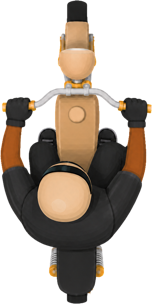
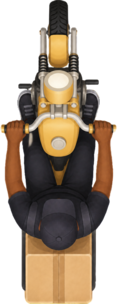
Passe « craft » du jeu mobility option — les deux-roues redessinés, la carte gamme recalée
Reprise des deux composants Figma « icons » (40:169) et « Taxi Moto » (40:198).
La doctrine des deux vues est tranchée : le pilote ne figure plus que sur la vue
de dessus — la carto suit quelqu'un — tandis que les variantes Default montrent
le véhicule seul, parce que la carte gamme vend une machine.

Les deux-roues sont redessinés en 3/4 couché. ILLO_SIZES passe de 59 × 76 et
47 × 76 à moto 106 × 87 et vélo 78 × 76 : la moto casse le gabarit commun de 76
de haut, délibérément, c'est la gamme la plus vendue et elle occupe la carte en
conséquence. Côté vue de dessus, TOPVIEW_RATIOS suit le nouveau dessin — moto
0,385 (elle s'affine), vélo 0,510 (il s'élargit, le cycliste écartant les bras
jusqu'aux poignées). Les longueurs TOPVIEW_MARKER sont recalculées pour
conserver la largeur apparente validée sur le terrain (moto 30 px, vélo 23,6 px),
puisque c'est elle le critère de lisibilité et non la longueur : la moto passe de
60 à 78 (56 pour les figurants), le vélo de 63 à 46 (32). La bande avant du
découpage de roue reste à 0,24 / 0,22, revérifiée au profil alpha ligne à ligne —
sur les deux dessins elle ne contient que la roue, guidon et mains n'arrivant
qu'à ~30 % de la longueur ; découper plus bas trancherait les avant-bras.

Carte gamme : espacement 12 → 18, la plateforme se tasse à 52 et le débord de
l'illustration double ; libellé 12 → 16/20, et c'est cet interligne surchargé qui
fait tomber la géométrie exactement sur Figma (bloc info 47, plateforme 52).
[…]

diff --git a/apps/fiw/constants/illustrations.ts b/apps/fiw/constants/illustrations.ts
@@ -51,12 +51,15 @@ export const TOPVIEW_ILLUSTRATIONS: Record<IlluKey, ReturnType<typeof require>> 
  *  (l'ombre portée élargit un peu la boîte des voitures). Sert à dimensionner
  *  le marqueur à partir de sa seule LONGUEUR, sans jamais l'étirer. */
 export const TOPVIEW_RATIOS: Record<IlluKey, number> = {
-  moto: 0.5,
-  velo: 0.375,
+  // Deux-roues redessinés le 14 août 2026 : la moto s'affine (silhouette plus
+  // serrée) tandis que le vélo s'élargit nettement — le cycliste y écarte les
+  // bras jusqu'aux poignées, et c'est cette envergure qui fait la largeur.
+  moto: 0.385,
+  velo: 0.51,
   auto: 0.549,
   luxe: 0.497,
   covoiturage: 0.569,
-  livraison: 0.5,
+  livraison: 0.385,
 };
 
 export const topviewIllustration = (illu: IlluKey) =>
@@ -106,6 +109,12 @@ export const topviewIllustration = (illu: IlluKey) =>
  * changer d'illustration impose de les revérifier. 0 = pas de découpage : sur
  * une voiture vue du dessus, les roues sont sous la carrosserie, invisibles.
  *
+ * Revérifiées sur les dessins du 14 août 2026 (profil alpha ligne à ligne) :
+ * inchangées. Sur les deux véhicules la bande avant ne contient que la ROUE —
+ * le guidon et les mains du pilote n'apparaissent qu'à ~30 % de la longueur.
+ * C'est ce qui rend le découpage encore possible malgré l'arrivée du pilote
+ * dans le dessin : découper plus bas trancherait les avant-bras.
+ *
  * `maxSteer` = angle de braquage maximal en degrés. Au-delà, l'arête droite de
  * la découpe finit par se voir.
  */
@@ -119,9 +128,15 @@ export const TOPVIEW_MARKER: Record<
   auto: { len: 48, ambLen: 34, pivot: 0.68, lean: 0, steerBand: 0, maxSteer: 0 },
   luxe: { len: 48, ambLen: 34, pivot: 0.68, lean: 0, steerBand: 0, maxSteer: 0 },
   covoiturage: { len: 48, ambLen: 34, pivot: 0.68, lean: 0, steerBand: 0, maxSteer: 0 },
-  moto: { len: 60, ambLen: 43, pivot: 0.72, lean: 0.14, steerBand: 0.24, maxSteer: 26 },
-  velo: { len: 63, ambLen: 44, pivot: 0.75, lean: 0.16, steerBand: 0.22, maxSteer: 28 },
-  livraison: { len: 60, ambLen: 43, pivot: 0.72, lean: 0.14, steerBand: 0.24, maxSteer: 26 },
+  // Deux-roues redessinés le 14 août 2026. Les LONGUEURS sont recalculées pour
+  // **conserver la largeur apparente** validée sur le terrain (moto 30 px,
+  // vélo 23,6 px) : c'est elle le critère de lisibilité, pas la longueur. Le
+  // nouveau ratio fait donc rallonger la moto (60 → 78, sous le plafond ×1,5
+  // constaté) et raccourcir le vélo (63 → 46), qui gagne en largeur ce qu'il
+  // perd en longueur. `ambLen` suit le même rapport qu'avant (≈ 0,70 · len).
+  moto: { len: 78, ambLen: 56, pivot: 0.72, lean: 0.14, steerBand: 0.24, maxSteer: 26 },
+  velo: { len: 46, ambLen: 32, pivot: 0.75, lean: 0.16, steerBand: 0.22, maxSteer: 28 },
+  livraison: { len: 78, ambLen: 56, pivot: 0.72, lean: 0.14, steerBand: 0.24, maxSteer: 26 },
 };
 
 export interface TopviewSprite {
@@ -151,13 +166,24 @@ export const ILLO_SLOT = 68;
  * sur les exports Figma, qui sont rognés au plus près du dessin.
  *
  * Aucune ne tient dans les 68 : les véhicules **débordent volontairement** leur
- * emplacement (76 de haut pour toute la famille, jusqu'à 93 de large pour les
- * voitures). C'est ce débord qui donne son expressivité à la carte gamme — le
- * rendre carré et « contenu » écrase l'illustration et casse la maquette.
+ * emplacement (76 de haut, 93 de large pour les voitures ; la moto pousse
+ * jusqu'à 106 × 87). C'est ce débord qui donne son expressivité à la carte
+ * gamme — le rendre carré et « contenu » écrase l'illustration et casse la
+ * maquette.
  */
 export const ILLO_SIZES: Record<IlluKey, { width: number; height: number }> = {
-  moto: { width: 59, height: 76 },
-  velo: { width: 47, height: 76 },
+  // Passe « craft » du 14 août 2026 : les deux-roues sont redessinés **sans
+  // pilote** sur cette vue (il ne reste que sur la vue de dessus, cf. plus bas)
+  // et en 3/4 plus couché. Ils passent donc de silhouettes étroites et debout
+  // (59 et 47 de large) à des gabarits couchés, comme les voitures.
+  //
+  // La moto **casse le gabarit commun** : elle est dessinée à 87 de haut là où
+  // le reste de la famille tient sur 76 (mesuré sur la maquette, boîte alpha
+  // 423 × 347 au ×4). C'est délibéré — elle est la gamme la plus vendue et
+  // occupe la carte en conséquence. Ne pas la « rentrer » à 76 : le débord sur
+  // la plateforme fait partie du dessin.
+  moto: { width: 106, height: 87 },
+  velo: { width: 78, height: 76 },
   auto: { width: 93, height: 76 },
   covoiturage: { width: 93, height: 76 },
   // Variante masquée dans le jeu Figma, mais l'illustration a le gabarit exact

diff --git a/apps/fiw/components/GammeCard.tsx b/apps/fiw/components/GammeCard.tsx
@@ -41,11 +41,17 @@ type Props = {
  * livraison.
  *
  * Géométrie du composant Figma, à ne pas rogner : la plateforme colorée occupe
- * la hauteur restante (~60) et l'illustration garde **sa taille propre** —
- * 76 de haut pour toute la famille, jusqu'à 93 de large pour les voitures
- * (cf. `ILLO_SIZES`). Elle **déborde** donc la plateforme en haut et en bas et
- * se cale **à droite** (`paddingRight: 12`) : c'est ce débord qui donne son
- * expressivité à la carte. Le badge ETA vient mordre le coin bas-gauche.
+ * la hauteur restante (~52) et l'illustration garde **sa taille propre** —
+ * 76 de haut et 93 de large pour les voitures, 78 pour le vélo, 106 × 87 pour
+ * la moto (cf. `ILLO_SIZES`). Elle **déborde** donc la plateforme d'au moins 12
+ * en haut comme en bas et se cale **à droite** (`paddingRight: 12`) : c'est ce
+ * débord qui donne son expressivité à la carte. Le badge ETA vient mordre le
+ * coin bas-gauche.
+ *
+ * Passe « craft » du 14 août 2026 : espacement porté à 18 (la plateforme se
+ * tasse, le débord double), libellé à 16, aplat en `primaryFill` et prix en
+ * `primaryInk`. Les deux-roues y perdent leur pilote — il ne subsiste que sur
+ * la vue de dessus, celle de la carto.
  */
 export default function GammeCard({
   label, eta, price, illu, badge, description, selected, onPress, style,
@@ -57,7 +63,9 @@ export default function GammeCard({
 
   const cardBg = progress.interpolate({ inputRange: [0, 1], outputRange: [Colors.surfaceAlt, Colors.primarySubtle] });
   const cardOpacity = progress.interpolate({ inputRange: [0, 1], outputRange: [0.5, 1] });
-  const platformBg = progress.interpolate({ inputRange: [0, 1], outputRange: [Colors.track, Colors.primary] });
+  // `primaryFill` et non `primary` : sur un aplat de cette taille, le bleu de
+  // marque vibre et mange l'illustration posée dessus (maquette 40:197).
+  const platformBg = progress.interpolate({ inputRange: [0, 1], outputRange: [Colors.track, Colors.primaryFill] });
   const platformScale = progress.interpolate({ inputRange: [0, 1], outputRange: [1, 1.04] });
   const idleOpacity = progress.interpolate({ inputRange: [0, 1], outputRange: [1, 0] });
 
@@ -102,7 +110,7 @@ export default function GammeCard({
               </Text>
             </Animated.View>
             <Animated.View style={[StyleSheet.absoluteFillObject, { opacity: progress }]}>
-              <Text variant="heading2" align="center" style={styles.priceText} color={Colors.primary}>
+              <Text variant="heading2" align="center" style={styles.priceText} color={Colors.primaryInk}>
                 {fmt(price)} FCFA
               </Text>
             </Animated.View>
@@ -116,7 +124,9 @@ export default function GammeCard({
 const styles = StyleSheet.create({
   card: { width: GAMME_CARD_WIDTH, padding: 8, borderRadius: Radii.lg },
   cardBg: { borderRadius: Radii.lg },
-  content: { flex: 1, gap: 12 },
+  // 18 (maquette 40:197) : la plateforme se tasse d'autant, ce qui accentue le
+  // débord de l'illustration — c'est voulu, cf. l'en-tête du composant.
+  content: { flex: 1, gap: 18 },
   platform: {
     flex: 1, width: '100%',
     borderRadius: Radii.md,
@@ -126,7 +136,10 @@ const styles = StyleSheet.create({
   },
   info: { gap: 4 },
   labelRow: { flexDirection: 'row', alignItems: 'center', justifyContent: 'center', gap: 4 },
-  label: { fontSize: 12 },
+  // 16/20 (maquette 40:197). L'interligne doit être surchargé avec la taille :
+  // `variant="label"` impose 18, trop serré pour du 16 — et c'est ce 20 qui fait
+  // tomber la géométrie juste (bloc info 47 → plateforme 52, exactement Figma).
+  label: { fontSize: 16, lineHeight: 20 },
   price: { width: '100%' },
   priceText: { fontFamily: Outfit.bold, width: '100%' },
   tag: {

diff --git a/apps/fiw/constants/colors.ts b/apps/fiw/constants/colors.ts
@@ -3,6 +3,17 @@ export const Colors = {
   primary:        '#0066FF',
   primaryHover:   '#0676FF',
   primaryPressed: '#0D459B',
+  // Aplat bleu des GRANDES surfaces (plateforme de la carte gamme). Moins
+  // saturé que `primary` : étalé sur une large surface, le bleu de marque
+  // vibre et écrase l'illustration posée dessus. Ne jamais l'employer pour du
+  // texte ni pour un bouton — c'est un fond, pas une couleur d'action.
+  primaryFill:    '#3B82F6',
+  // Bleu de TEXTE sur fond clair — un cran plus profond que `primary`, qui
+  // manque de corps sur un chiffre de 18 px (prix de la carte gamme).
+  primaryInk:     '#005DE8',
+  // Aligné sur la variable `primarySubtle` du fichier Figma (16 août 2026) : les
+  // deux avaient divergé, le code tirant vers le violet et la maquette vers le
+  // cyan. Même valeur que `blue50` — c'est le palier subtil de l'échelle bleue.
   primarySubtle:  '#EDF7FF',
   primaryOn:      '#FFFFFF',
   // Jaune de marque (logo Fiw, accents ponctuels). Seuls jaunes autorisés — à ne

diff --git a/MEMORY.md b/MEMORY.md
@@ -12,6 +12,8 @@ Sitemaps Fiw (Client) et Fiw Pro (Prestataire) complétés. ADR 0003 décidé : 
 
 **Jeu d'illustrations `mobility option` & carte gamme partagée (2 août 2026)** : la carte gamme est extraite en composant unique **`components/GammeCard.tsx`** (Figma « Taxi Moto » 40:197), utilisée par la rangée Transport ET les méthodes de livraison — largeur 138 fixe ou `flex: 1`, ligne secondaire optionnelle (hauteur 133 → 152). Le jeu [`mobility option`](assets/illustrations/README.md) (Figma `icons` 40:169) est resynchronisé : **moto** et **velo** en nouveau rendu 3D, `auto`/`covoiturage`/`luxe` inchangés. Point clé : **chaque illustration a sa propre taille de rendu** dans l'emplacement de 68 — 76 de haut pour toute la famille, 93 de large pour les voitures — donc elle **déborde volontairement** la plateforme (`ILLO_SIZES` + `illoSize()` dans `constants/illustrations.ts`). Les assets sont désormais **rognés sur leur boîte alpha** (les exports Figma du composant embarquent le fond gris du frame) : `object-fit: contain` ajouté au marqueur carte, `vehicleRenderImg` ramené à 48. **Moto Livraison montre la même moto que le Taxi Moto** (`illu: 'moto'`) — le véhicule prime sur le service ; `serv-livraison.png` reste la tuile de service de l'accueil.
 
+**Passe « craft » sur le jeu d'illustrations & la carte gamme (14 août 2026)** : reprise des deux composants Figma `icons` (40:169) et « Taxi Moto » (40:198). **Doctrine des deux vues tranchée** : le pilote ne figure plus que sur la **vue de dessus** (la carto suit quelqu'un), les `Default` montrent le **véhicule seul** (la carte gamme vend une machine). Les deux-roues sont redessinés en 3/4 couché : `ILLO_SIZES` passe de 59 × 76 et 47 × 76 à **moto 106 × 87** et **vélo 78 × 76** — et la moto **casse le gabarit commun** de 76 de haut, délibérément (gamme la plus vendue). Vues de dessus : `TOPVIEW_RATIOS` moto **0,385** (s'affine) et vélo **0,510** (s'élargit — le cycliste écarte les bras jusqu'aux poignées) ; les longueurs `TOPVIEW_MARKER` sont recalculées pour **conserver la largeur apparente** validée terrain (moto 30 px, vélo 23,6 px), d'où moto 60 → **78** (56) et vélo 63 → **46** (32). La **bande avant `steerBand` est inchangée** (0,24 / 0,22), revérifiée au profil alpha : sur les deux dessins elle ne contient que la roue, guidon et mains n'arrivant qu'à ~30 % de la longueur — découper plus bas trancherait les avant-bras. Carte gamme : espacement **12 → 18** (la plateforme se tasse à 52, le débord de l'illustration double), libellé **12 → 16/20** (c'est cet interligne qui fait tomber la géométrie exactement sur Figma). **La palette évolue** : `primarySubtle` #EDF7FF → **#E6F0FF**, plus deux rôles nouveaux — **`primaryFill` #3B82F6** (aplat des grandes surfaces : étalé, le bleu de marque vibre et écrase l'illustration) et **`primaryInk` #005DE8** (bleu de texte sur fond clair, `primary` manquant de corps à 18 px). `Colors.primary` #0066FF **reste le bleu de marque**, inchangé. **Deux pièges documentés dans `assets/illustrations/README.md`** : (1) dans Figma les variantes `Default` **`moto` et `vélo` sont interverties** — la variante nommée `moto` contient le vélo, et le README perpétuait l'erreur ; se fier au dessin, pas à l'étiquette ; (2) **les exports Figma de ces composants ne sont pas transparents** (le rendu incruste le fond de page `#E3E3E3`, y compris en exportant le rectangle porteur) — les assets se reconstruisent depuis le **bitmap source** en appliquant l'`imageTransform` du fill (`scaleMode: CROP`, zone visible de `(tx, ty)` à `(tx+a, ty+d)`) puis les rotations du nœud et de son parent, avant `trim-alpha.py`.
+
 **Carte immersive — véhicule sur la route (3 août 2026)** : benchmark Mobbin ([docs/benchmark-carte-mobbin.md](docs/benchmark-carte-mobbin.md) — inDrive, Grab, Gojek, Uber, Careem, Freenow) puis reprise du moteur `components/LeafletMap.tsx`. Le jeu `mobility option` a désormais une **vue de dessus par véhicule** (Figma 40:169, `View=top view`), **nez au nord** dans l'asset : elle habille la **carto** (véhicule suivi + prestataires alentour) pendant que la vue isométrique reste celle des **cartes** — deux emplois disjoints, jamais interchangés. Le sprite **pivote selon son cap** (tangente regardée en avant, lissage exponentiel, braquage borné à 220 °/s), avance à **vitesse sol constante** (abscisse curviligne, plus « un sommet par image » qui accélérait dans les virages), le tracé se lit **parcouru atténué / restant en bleu** sous un liseré blanc, et la caméra **cadre le trajet entier puis suit** le véhicule (recentrage seulement en bord de cadre visible). Les **prestataires alentour roulent sur la voirie réelle** lue via `queryRenderedFeatures` (repli dérive libre) et tournent aux carrefours. **Une seule carte pour toute la course** : les étapes passent par un message `setTrip` (HTML figé au montage) au lieu du remontage `key=` — le véhicule garde position et cap entre les étapes. **Calibre (passe deux-roues, 3 août)** : le premier réglage (tout le monde à 38 px) rendait moto et vélo trop petits — un corpus deux-roues dédié (Zomato, Meituan, Keeta, Glovo, foodpanda, Bolt Food, Blinkit, Swiggy) montre qu'**aucune app ne dessine un deux-roues à son échelle réelle** : soit pastille à gabarit plancher, soit sprite franchement grossi (scooter Zomato **mesuré à 26 × 39 pt**, soit plus large qu'une voiture inDrive ~16 × 29). Le critère est la **largeur apparente**, pas la longueur — un deux-roues vu du dessus est long, fin et ajouré. D'où `TOPVIEW_MARKER`, **relevé d'un quart après comparaison de trois gabarits en conditions réelles** (le réglage collé aux valeurs mesurées était jugé trop timide) : auto/luxe/covoiturage 48 (figurants 34), moto 60 (43), vélo 63 (44), largeurs alignées à 24–30 px. Fiw se place **au-dessus du corpus délibérément** — rendus 3D détaillés qui demandent de la place, et qui portent la marque, là où les références emploient des pictogrammes plats ; **plafond constaté à ×1,5** de ces valeurs, au-delà le sprite déborde la chaussée et la ville se lit comme une maquette. Pastille écartée (masquerait l'illustration, actif de marque). Le virage tenait à trois détails, tous amplifiés sur les sprites longs : **rotation au train arrière** (pivot 0,68–0,75, pas au centre — sinon toupie), **distance de visée en durée** (~0,55 s de parcours, pas 14 m fixes : la simulation compresse 20 min en 54 s, donc à distance fixe le virage arrive en 0,15 s et le sprite pivote d'un bloc) et **inclinaison simulée** des deux-roues (silhouette resserrée de 14–16 % en virage, nulle sur les voitures). **Train avant articulé (3 août)** : les deux-roues tournaient encore d'un bloc, roue avant alignée sur le cadre. Les illustrations Figma étant des **bitmaps aplatis** (vérifié : un rectangle à remplissage image, aucun calque), la roue est détachée **au découpage** — le sprite est dessiné deux fois, l'un privé de sa bande avant (`steerBand` 24 % moto / 22 % vélo, calée sur l'interstice garde-boue↔guidon), l'autre réduit à elle et pivotant sur la colonne de direction ; couture invisible car c'est le même dessin découpé de façon complémentaire, zéro asset en plus, 60 fps tenus à 6 véhicules. Point clé : le braquage est commandé par la **courbure de la route** (grandeur géométrique), **pas** par l'écart de cap — celui-ci paraît naturel mais s'effondre à vitesse de démo, où le cap rattrape sa cible en une image. Profil mesuré : la roue s'engage avant que le cap ne bouge, tient le braquage toute la courbe, se redresse en sortie. Marqueurs non tappables : le calibre est un critère de lisibilité, pas de cible tactile. Trois écueils rencontrés et corrigés : Mapbox réécrit le `transform` du marqueur (rotation/échelle à poser sur l'`<img>`), un `easeTo` de suivi annule le rapprochement d'intro (armer le suivi sur `moveend`), et **aucun accent grave n'est permis dans le template HTML** de LeafletMap.
 
 **Dernière itération Transport (juillet 2026)** : frais d'attente annoncés dès la commande (5 min offertes puis 100 F/min — cf. CONTEXT.md), compte à rebours d'arrivée réel, **Option C** présentée via un interrupteur de démo sur `searching` (A/B et C exclusifs), écran **Historique** (`app/history/`) avec plaque mais **sans numéro prestataire** (objet oublié → service client), actions course active câblées en retour léger réel (appel masqué `transport/call`, chat `transport/chat`, SOS, partage), composants partagés `ReceiptCard` + `ScreenHeader` ajoutés, tokens couleur étendus (`track`/`surfaceAlt`/`brandYellow`) + variante typo `displayXl`. Écran mort `transport/destination` supprimé.

diff --git a/assets/illustrations/README.md b/assets/illustrations/README.md
@@ -20,6 +20,32 @@ Ne jamais poser une vue de dessus sur une carte gamme, ni une vue isométrique
 sur la carte : c'est le partage observé chez toutes les références du
 [benchmark carte](../../docs/benchmark-carte-mobbin.md).
 
+## ⚠ Deux pièges à connaître avant de retoucher ce jeu
+
+**1. Les variantes `moto` et `vélo` sont interverties dans Figma** (constaté le
+14 août 2026, sur la vue `Default`). La variante nommée `mobility option=moto`
+contient **le vélo**, et celle nommée `mobility option=vélo` contient **la
+moto** ; leurs calques internes portent eux aussi le nom de l'autre. Les vues
+`top view` sont, elles, correctement nommées. Un portage qui fait confiance au
+nom de variante intervertit les deux véhicules dans toute l'app. Les tableaux
+ci-dessous donnent le **bon** appariement. Tant que Figma n'est pas corrigé,
+vérifier le dessin, pas l'étiquette.
+
+**2. Les exports Figma de ces composants ne sont pas transparents.** Le rendu
+d'un nœud incruste le fond de la page (`#E3E3E3`) — y compris quand on exporte
+le rectangle porteur, et pas seulement la variante. Les assets **ne peuvent
+donc pas** être produits par un simple export. La méthode qui marche : prendre
+le **bitmap source** (transparent, ~1024 px), lui appliquer le cadrage du
+composant (`imageTransform` du fill, `scaleMode: CROP` — la zone visible va de
+`(tx, ty)` à `(tx + a, ty + d)` en coordonnées normalisées), puis la rotation
+du nœud et de son parent, et enfin `trim-alpha.py`.
+
+## Doctrine des deux vues : le pilote
+
+Depuis le 14 août 2026, le pilote ne figure **que sur la vue de dessus**. Les
+`Default` montrent le véhicule seul. La carte gamme vend une machine ; la carto
+suit quelqu'un.
+
 ## Vue `Default` — tailles, le point à ne pas rater
 
 Chaque variante occupe un emplacement de **68 × 68** dans le composant, mais
@@ -31,8 +57,8 @@ son expressivité à la carte. Les valeurs sont dans `ILLO_SIZES`
 
 | Variante | Taille de rendu (emplacement 68) | Asset app | État Figma |
 | --- | --- | --- | --- |
-| `moto` | 59 × 76 | `gamme-moto.png` | **nouveau rendu 3D** ([`55:63`](https://www.figma.com/design/MsKt5tJdmMUWIDTRtPh6L1/Fiw?node-id=199-886)) |
-| `velo` | 47 × 76 | `gamme-velo.png` | **nouveau rendu 3D** ([`198:750`](https://www.figma.com/design/MsKt5tJdmMUWIDTRtPh6L1/Fiw?node-id=198-750)) |
+| `moto` | **106 × 87** | `gamme-moto.png` | **redessinée le 14 août 2026, sans pilote** — source [`198:750`](https://www.figma.com/design/MsKt5tJdmMUWIDTRtPh6L1/Fiw?node-id=198-750) ⚠ variante **nommée `vélo`** dans Figma |
+| `velo` | **78 × 76** | `gamme-velo.png` | **redessinée le 14 août 2026, sans pilote** — source [`55:63`](https://www.figma.com/design/MsKt5tJdmMUWIDTRtPh6L1/Fiw?node-id=55-63) ⚠ variante **nommée `moto`** dans Figma |
 | `auto` | 93 × 76 | `gamme-auto.png` | inchangée (isométrique à plat) |
 | `covoiturage` | 93 × 76 | `gamme-covoit.png` | inchangée |
 | `luxe` | 93 × 76 | `gamme-luxe.png` | variante masquée dans le jeu — asset conservé |
@@ -51,8 +77,8 @@ tourné d'un quart de tour ferait rouler toute une gamme en crabe.
 
 | Variante | Taille Figma | Ratio l/L (asset) | Asset app | Master |
 | --- | --- | --- | --- | --- |
-| `moto` | 37 × 76 | 0,500 | `top-moto.png` | `mobility-moto-top@1024.png` |
-| `velo` | 28 × 77 | 0,375 | `top-velo.png` | `mobility-velo-top@1024.png` |
+| `moto` | 34 × 77 | **0,385** | `top-moto.png` | `mobility-moto-top@1024.png` |
+| `velo` | 51 × 76 | **0,510** | `top-velo.png` | `mobility-velo-top@1024.png` |
 | `auto` | 38 × 76 | 0,549 | `top-auto.png` | `mobility-auto-top@1024.png` |
 | `luxe` | 38 × 76 | 0,497 | `top-luxe.png` | `mobility-luxe-top@1024.png` |
 | `covoiturage` | 38 × 76 | 0,569 | `top-covoit.png` | `mobility-covoit-top@1024.png` |
@@ -74,8 +100,17 @@ Le critère de lisibilité est donc la **largeur apparente**, pas la longueur.
 | Véhicule | Suivi (L) | Figurants (L) | Pivot | Inclinaison | Bande avant | Braquage |
 | --- | --- | --- | --- | --- | --- | --- |
 | `auto` · `luxe` · `covoiturage` | 48 | 34 | 0,68 | — | — | — |
-| `moto` | 60 | 43 | 0,72 | 14 % | 24 % | 26° |
-| `velo` | 63 | 44 | 0,75 | 16 % | 22 % | 28° |
+| `moto` | 78 | 56 | 0,72 | 14 % | 24 % | 26° |
+| `velo` | 46 | 32 | 0,75 | 16 % | 22 % | 28° |
+
+Les longueurs des deux-roues ont été **recalculées le 14 août 2026** après le
+redessin : elles conservent la largeur apparente validée sur le terrain (moto
+30 px, vélo 23,6 px), puisque c'est elle le critère. Le nouveau ratio fait donc
+rallonger la moto (60 → 78) et raccourcir le vélo (63 → 46) — ce dernier gagne
+en envergure ce qu'il perd en longueur, le cycliste y écartant les bras. La
+**bande avant est inchangée** : vérifiée au profil alpha sur les nouveaux
+dessins, elle ne contient toujours que la roue, le guidon et les mains
+n'arrivant qu'à ~30 % de la longueur.
 
 Les longueurs diffèrent, les largeurs se rejoignent (24–30 px). Valeurs dans
 `TOPVIEW_MARKER` (`apps/fiw/constants/illustrations.ts`). Ce calibre passe
